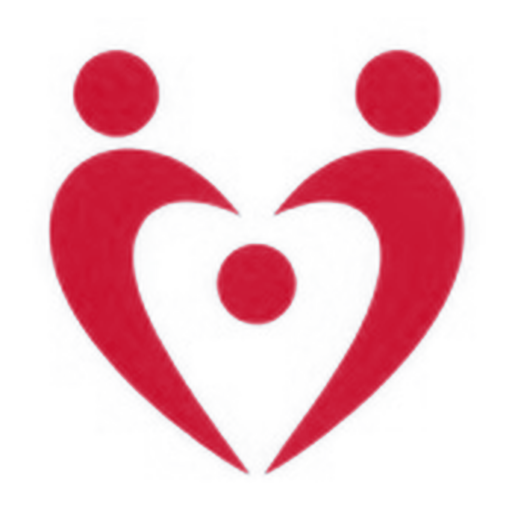
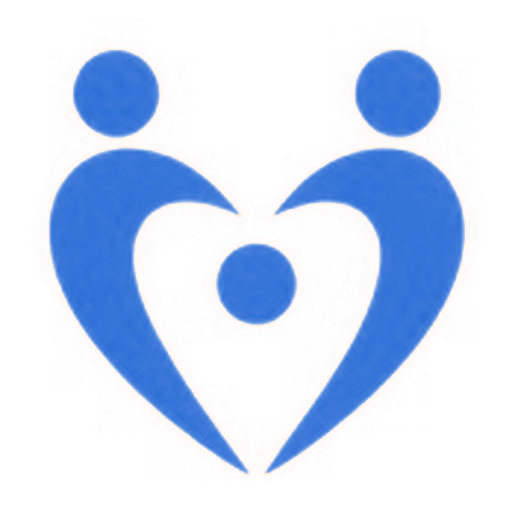
Blue/orange preview (local only)

Changed region(s): [[0.0938, 0.0938, 0.9062, 0.9375], [0.4062, 0.4688, 0.5938, 0.6562]]

diff --git a/css/style.css b/css/style.css
@@ -1,5 +1,5 @@
 @font-face{font-family:"Manrope";src:url("../fonts/Manrope-var.woff2") format("woff2");font-weight:200 800;font-display:swap}
-:root{--navy:#1B2A4A;--navy2:#26375C;--green:#C8102E;--green-d:#A00D25;--ink:#1B2A4A;--mut:#5A6678;--bg:#F6F8FB;--line:#E3E8EF}
+:root{--navy:#2E6FD6;--navy2:#2560BD;--green:#F26B1D;--green-d:#D9560F;--ink:#1F4E8C;--mut:#5A6678;--bg:#F6F8FB;--line:#E3E8EF}
 *{box-sizing:border-box}html{scroll-behavior:smooth;scroll-padding-top:80px}
 body{margin:0;font:16px/1.65 Manrope,system-ui,sans-serif;color:var(--ink);background:#fff}
 img{max-width:100%;height:auto;display:block}a{color:inherit}
@@ -26,40 +26,40 @@ nav#menu a.btn{color:#fff}
 .ctas{display:flex;gap:14px;flex-wrap:wrap;margin:28px 0}
 .ticks{list-style:none;padding:0;display:flex;gap:22px;flex-wrap:wrap;color:var(--mut);font-size:.92rem;font-weight:600}
 .ticks li::before,.list li::before{content:"✓";color:var(--green-d);font-weight:800;margin-right:8px}
-.mock{background:var(--navy);border-radius:18px;box-shadow:0 30px 60px -20px rgba(27,42,74,.45);color:#EDEDED;overflow:hidden}
-.mock-bar{display:flex;gap:6px;align-items:center;padding:12px 16px;background:#14203A;font-size:.8rem}.mock-bar i{width:10px;height:10px;border-radius:50%;background:#4A5A7A}.mock-bar span{margin-left:10px}
+.mock{background:var(--navy);border-radius:18px;box-shadow:0 30px 60px -20px rgba(31,78,140,.45);color:#EDEDED;overflow:hidden}
+.mock-bar{display:flex;gap:6px;align-items:center;padding:12px 16px;background:#1F4E8C;font-size:.8rem}.mock-bar i{width:10px;height:10px;border-radius:50%;background:#4A6A9A}.mock-bar span{margin-left:10px}
 .mock-body{padding:18px;display:grid;gap:14px}.mock small{font-size:.72rem;text-transform:uppercase;letter-spacing:.08em;color:#B5B5B5;display:block}
 .kpis{display:grid;grid-template-columns:repeat(3,1fr);gap:12px}.kpi,.chart,.bars,.lb,.ring{background:var(--navy2);border-radius:12px;padding:12px}
-.kpi strong{font-size:1.5rem;color:#fff;display:block}.meter{height:6px;background:#33415F;border-radius:4px;margin-top:6px}.meter b{display:block;height:100%;background:var(--green);border-radius:4px}
+.kpi strong{font-size:1.5rem;color:#fff;display:block}.meter{height:6px;background:#2F5A94;border-radius:4px;margin-top:6px}.meter b{display:block;height:100%;background:var(--green);border-radius:4px}
 .chart svg{width:100%;height:110px;margin-top:6px}
-.bars>div{display:flex;align-items:flex-end;gap:10px;height:80px;margin-top:8px}.bars b{flex:1;background:linear-gradient(var(--green),#8E0B20);border-radius:4px 4px 0 0}
+.bars>div{display:flex;align-items:flex-end;gap:10px;height:80px;margin-top:8px}.bars b{flex:1;background:linear-gradient(var(--green),#B8460A);border-radius:4px 4px 0 0}
 .mock-note{font-size:.72rem;color:#B5B5B5;margin:0;padding:0 18px 14px}
 .logos{padding:36px 0;border-bottom:1px solid var(--line)}
 .logos ul{list-style:none;padding:0;display:flex;justify-content:center;gap:16px;flex-wrap:wrap;margin:0}.logos li{border:1.5px dashed #c5cfdc;color:#6b788b;border-radius:8px;padding:12px 22px;font-size:.85rem;font-weight:700}
 .sec{padding:96px 0}.alt{background:var(--bg)}.dark{background:var(--navy);color:#F2F2F2}.dark .eyebrow{color:var(--green)}.dark h2{color:#fff}
 .grid3{display:grid;grid-template-columns:repeat(3,1fr);gap:22px}
-.card{background:#fff;border:1px solid var(--line);border-radius:16px;padding:28px;box-shadow:0 2px 6px rgba(27,42,74,.04)}.card p{color:var(--mut);margin:0}
+.card{background:#fff;border:1px solid var(--line);border-radius:16px;padding:28px;box-shadow:0 2px 6px rgba(31,78,140,.04)}.card p{color:var(--mut);margin:0}
 .ic{width:46px;height:46px;border-radius:12px;background:#EAF0F8;color:var(--green-d);display:grid;place-items:center;font-size:1.3rem;margin-bottom:16px}
 .split{display:grid;grid-template-columns:1fr 1.1fr;gap:56px;align-items:start}
 .duo{display:grid;gap:20px}.list{list-style:none;padding:0;margin:0}.list li{padding:5px 0}
 .steps{list-style:none;padding:0;display:grid;grid-template-columns:repeat(4,1fr);gap:22px;counter-reset:s}
 .steps li{border-top:3px solid var(--green);padding-top:20px}.steps span{display:inline-grid;place-items:center;width:38px;height:38px;border-radius:50%;background:var(--navy);color:#fff;font-weight:800;margin-bottom:12px}.steps p{color:var(--mut)}
 .feat{display:grid;grid-template-columns:1fr 1.2fr;gap:48px;align-items:center}
-.feat-list{display:grid;gap:6px}.feat-list article{padding:14px 0 14px 18px;border-left:3px solid #33415F}.feat-list article:hover{border-color:var(--green)}.feat-list h3{color:#fff;margin:0 0 4px}.feat-list p{margin:0;color:#C8C8C8}
-.mock-lg{background:#14203A;border:1px solid #33415F}
+.feat-list{display:grid;gap:6px}.feat-list article{padding:14px 0 14px 18px;border-left:3px solid #2F5A94}.feat-list article:hover{border-color:var(--green)}.feat-list h3{color:#fff;margin:0 0 4px}.feat-list p{margin:0;color:#C8C8C8}
+.mock-lg{background:#1F4E8C;border:1px solid #2F5A94}
 .ring-row{display:grid;grid-template-columns:150px 1fr;gap:14px}.ring svg{width:100%;max-width:110px;margin:6px auto}
 .lb-r{display:grid;grid-template-columns:60px 1fr;gap:8px;align-items:center;font-size:.8rem;margin-top:8px}.lb-r b{height:8px;background:var(--green);border-radius:4px;display:block}
 .quote{margin:56px auto 0;max-width:760px;text-align:center;border:1.5px dashed #c5cfdc;border-radius:16px;padding:32px}
 .quote blockquote{margin:0 0 12px;font-size:1.25rem;font-weight:600}.quote figcaption{color:var(--mut);font-size:.9rem}
-.about{display:grid;grid-template-columns:380px 1fr;gap:56px;align-items:center}.about img{border-radius:18px;box-shadow:0 20px 40px -20px rgba(27,42,74,.4)}
+.about{display:grid;grid-template-columns:380px 1fr;gap:56px;align-items:center}.about img{border-radius:18px;box-shadow:0 20px 40px -20px rgba(31,78,140,.4)}
 .role{font-weight:700;color:var(--green-d)}
 .creds{list-style:none;padding:0;display:flex;flex-wrap:wrap;gap:8px;margin-top:20px}.creds li{background:#fff;border:1px solid var(--line);border-radius:999px;padding:6px 14px;font-size:.82rem;font-weight:700;color:var(--navy)}
-.form{background:#fff;border:1px solid var(--line);border-radius:18px;padding:32px;display:grid;gap:16px;box-shadow:0 20px 40px -24px rgba(27,42,74,.3)}
+.form{background:#fff;border:1px solid var(--line);border-radius:18px;padding:32px;display:grid;gap:16px;box-shadow:0 20px 40px -24px rgba(31,78,140,.3)}
 .form label{display:grid;gap:6px;font-weight:700;font-size:.92rem}
 .form input,.form select,.form textarea{font:inherit;padding:12px 14px;border:1.5px solid #cdd6e2;border-radius:10px;background:#fff}
-.form input:focus,.form select:focus,.form textarea:focus{border-color:var(--green-d);outline:none;box-shadow:0 0 0 3px rgba(200,16,46,.25)}
+.form input:focus,.form select:focus,.form textarea:focus{border-color:var(--green-d);outline:none;box-shadow:0 0 0 3px rgba(242,107,29,.25)}
 .hp{position:absolute;left:-9999px}.fine{font-size:.82rem;color:var(--mut);margin:0}
-.foot{background:#14203A;color:#C8C8C8;padding:40px 0}.foot-in{display:flex;flex-wrap:wrap;gap:24px;justify-content:space-between;align-items:center}
+.foot{background:#1F4E8C;color:#C8C8C8;padding:40px 0}.foot-in{display:flex;flex-wrap:wrap;gap:24px;justify-content:space-between;align-items:center}
 .foot .brand{color:#fff}.foot .brand b{color:var(--green)}.foot nav{display:flex;gap:20px}.foot nav a{text-decoration:none}.foot p{margin:0;font-size:.85rem}
 @media (max-width:960px){.hero-in,.split,.feat,.about{grid-template-columns:1fr}.grid3{grid-template-columns:1fr 1fr}.steps{grid-template-columns:1fr 1fr}.about img{max-width:340px}
 .menu-btn{display:block}nav#menu{display:none;position:absolute;top:68px;left:0;right:0;background:#fff;flex-direction:column;padding:20px;border-bottom:1px solid var(--line)}nav#menu.open{display:flex}}
@@ -72,28 +72,28 @@ nav#menu a.btn{color:#fff}
 .brand-logo{height:44px;width:auto;max-width:60vw}@media(max-width:600px){.brand-logo{height:36px}}
 /* ---- Rebrand preview: orange + charcoal + white ---- */
 :root{--line:#E3E8EF;--bg:#F6F8FB;--mut:#5A6678}
-h1{letter-spacing:-.035em}h1 span{color:var(--green);background:linear-gradient(transparent 70%,#F9DCE1 70%)}
+h1{letter-spacing:-.035em}h1 span{color:var(--green);background:linear-gradient(transparent 70%,#FDE6D6 70%)}
 h2{letter-spacing:-.03em}
 .nav{background:rgba(255,255,255,.96);border-bottom:1px solid var(--line)}.nav-in{height:76px}
 nav#menu a:hover{color:var(--green-d)}
-.btn{background:var(--green);border-radius:999px;box-shadow:0 10px 24px -10px rgba(200,16,46,.6)}
+.btn{background:var(--green);border-radius:999px;box-shadow:0 10px 24px -10px rgba(242,107,29,.6)}
 .btn:hover{background:var(--green-d)}
 .btn-ghost{background:#fff;color:var(--navy);box-shadow:inset 0 0 0 2px var(--navy)}.btn-ghost:hover{background:var(--navy);color:#fff}
 .eyebrow{display:inline-block;background:#EAF0F8;color:var(--green-d);padding:6px 12px;border-radius:999px;letter-spacing:.1em}
-.dark .eyebrow{background:rgba(200,16,46,.15);color:#E0475E}
+.dark .eyebrow{background:rgba(242,107,29,.15);color:#F58A4B}
 .hero{background:radial-gradient(900px 520px at 90% 0%,#DCE6F3,transparent 70%),radial-gradient(600px 400px at 0% 100%,#EAF0F8,transparent),#fff}
-.mock{border-radius:22px;box-shadow:0 40px 80px -30px rgba(27,42,74,.55)}
+.mock{border-radius:22px;box-shadow:0 40px 80px -30px rgba(31,78,140,.55)}
 .card{border-radius:20px;border-color:var(--line);transition:transform .2s,box-shadow .2s}
-.card:hover{transform:translateY(-3px);box-shadow:0 20px 40px -24px rgba(200,16,46,.45);border-color:#F2B8C1}
+.card:hover{transform:translateY(-3px);box-shadow:0 20px 40px -24px rgba(242,107,29,.45);border-color:#FBCDB0}
 .ic{border-radius:50%;background:var(--green);color:#fff}
 .steps li{border-top:4px solid var(--green)}.steps span{background:var(--green)}
-.dark{background:linear-gradient(160deg,#1B2A4A,#14203A)}
+.dark{background:linear-gradient(160deg,#2E6FD6,#1F4E8C)}
 .alt{background:var(--bg)}
 .logos li{border-color:#D5DEEA}
-.foot{background:#14203A;border-top:4px solid var(--green)}
+.foot{background:#1F4E8C;border-top:4px solid var(--green)}
 .brand-logo{height:54px}@media(max-width:600px){.brand-logo{height:42px}}
-/* Secondary accent: green #1B2A4A (positive/progress cues). Orange remains primary. */
-:root{--ok:#1B2A4A;--ok-d:#14203A;--ok-l:#EAF0F8}
+/* Secondary accent: green #2E6FD6 (positive/progress cues). Orange remains primary. */
+:root{--ok:#2E6FD6;--ok-d:#1F4E8C;--ok-l:#EAF0F8}
 .ticks li::before,.list li::before{color:var(--ok)}
 .meter b{background:var(--ok)}
 .bars b{background:linear-gradient(#3A5A8C,var(--ok))}
@@ -106,7 +106,7 @@ nav#menu a:hover{color:var(--green-d)}
 /* Green pass 2: stronger secondary presence. Orange still leads all CTAs. */
 #solution{background:var(--ok-l)}
 #solution .card{border-top:4px solid var(--ok)}
-#solution>.wrap>.eyebrow,#how .eyebrow,#employers .eyebrow{background:#fff;color:var(--ok-d);box-shadow:inset 0 0 0 1px rgba(27,42,74,.25)}
+#solution>.wrap>.eyebrow,#how .eyebrow,#employers .eyebrow{background:#fff;color:var(--ok-d);box-shadow:inset 0 0 0 1px rgba(31,78,140,.25)}
 #how .eyebrow,#employers .eyebrow{background:var(--ok-l);box-shadow:none}
 #solution .card .eyebrow{background:var(--ok-l);color:var(--ok-d)}
 #solution h2::after,#how h2::after,#employers h2::after{content:"";display:block;width:56px;height:4px;border-radius:2px;background:var(--ok);margin-top:14px}
@@ -117,15 +117,15 @@ main p a:not(.btn),footer a:not(.btn){text-decoration-color:var(--ok);text-under
 main p a:not(.btn):hover,footer a:not(.btn):hover{color:var(--ok-d)}
 #solution .offer .card .eyebrow{align-self:flex-start}
 /* green icons */
-.ic,#solution .ic{background:var(--ok);color:#fff;box-shadow:0 8px 18px -10px rgba(27,42,74,.7)}
+.ic,#solution .ic{background:var(--ok);color:#fff;box-shadow:0 8px 18px -10px rgba(31,78,140,.7)}
 .steps span{background:var(--ok);color:#fff}
-.feat-list article{border-left-color:rgba(27,42,74,.55)}
+.feat-list article{border-left-color:rgba(31,78,140,.55)}
 svg.icon,.icon{color:var(--ok);fill:currentColor}
 /* Green pass 4: every interactive state turns green. Resting look unchanged. */
 a,button,.btn,.card,nav#menu a,.menu-btn{transition:background-color .22s ease,color .22s ease,border-color .22s ease,box-shadow .22s ease,transform .22s ease,text-decoration-color .22s ease}
-.btn:hover,.btn:focus-visible{background:var(--ok);color:#fff;box-shadow:0 12px 28px -10px rgba(27,42,74,.65);transform:translateY(-1px)}
-.btn:active{background:var(--ok-d);color:#fff;transform:translateY(0);box-shadow:0 6px 14px -8px rgba(27,42,74,.7)}
-.btn-ghost:hover,.btn-ghost:focus-visible{background:#fff;color:var(--ok);box-shadow:inset 0 0 0 2px var(--ok),0 10px 24px -14px rgba(27,42,74,.5)}
+.btn:hover,.btn:focus-visible{background:var(--ok);color:#fff;box-shadow:0 12px 28px -10px rgba(31,78,140,.65);transform:translateY(-1px)}
+.btn:active{background:var(--ok-d);color:#fff;transform:translateY(0);box-shadow:0 6px 14px -8px rgba(31,78,140,.7)}
+.btn-ghost:hover,.btn-ghost:focus-visible{background:#fff;color:var(--ok);box-shadow:inset 0 0 0 2px var(--ok),0 10px 24px -14px rgba(31,78,140,.5)}
 .btn-ghost:active{background:var(--ok-l);color:var(--ok-d);box-shadow:inset 0 0 0 2px var(--ok-d)}
 #platform .btn-ghost:hover,#platform .btn-ghost:focus-visible{background:transparent;color:#A9C1E3;box-shadow:inset 0 0 0 2px #A9C1E3}
 nav#menu a:not(.btn):hover,nav#menu a:not(.btn):focus-visible{color:var(--ok)}
@@ -134,8 +134,8 @@ a:not(.btn):hover,a:not(.btn):focus-visible{color:var(--ok);text-decoration-colo
 a:not(.btn):active{color:var(--ok-d)}
 .foot a:not(.btn):hover,.dark a:not(.btn):hover{color:#A9C1E3}
 .menu-btn:hover,.menu-btn:focus-visible{color:var(--ok);border-color:var(--ok)}
-.card:hover,.card:focus-within{border-color:var(--ok);box-shadow:0 20px 40px -24px rgba(27,42,74,.45)}
-.form input:focus,.form select:focus,.form textarea:focus{border-color:var(--ok);box-shadow:0 0 0 3px rgba(27,42,74,.22)}
+.card:hover,.card:focus-within{border-color:var(--ok);box-shadow:0 20px 40px -24px rgba(31,78,140,.45)}
+.form input:focus,.form select:focus,.form textarea:focus{border-color:var(--ok);box-shadow:0 0 0 3px rgba(31,78,140,.22)}
 :focus-visible{outline-color:var(--ok)}
 .grid4{display:grid;grid-template-columns:repeat(4,1fr);gap:22px}
 #engagement .ic svg{display:block}

diff --git a/index.html b/index.html
@@ -13,7 +13,7 @@
 <meta property="og:url" content="https://workforcewellness.co/">
 <meta property="og:image" content="https://workforcewellness.co/img/og.png">
 <meta name="twitter:card" content="summary_large_image">
-<meta name="theme-color" content="#0B1F3A">
+<meta name="theme-color" content="#2E6FD6">
 <link rel="icon" href="img/favicon-32-rwb.png" sizes="32x32">
 <link rel="apple-touch-icon" href="img/ww-icon-512-rwb.png">
 <link rel="preload" href="fonts/Manrope-var.woff2" as="font" type="font/woff2" crossorigin>
@@ -50,7 +50,7 @@
           <div class="kpi"><small>Challenge streaks</small><strong>—</strong><div class="meter"><b style="width:44%"></b></div></div>
         </div>
         <div class="chart"><small>Engagement trend</small>
-          <svg viewBox="0 0 300 110" preserveAspectRatio="none"><defs><linearGradient id="g" x1="0" x2="0" y1="0" y2="1"><stop offset="0" stop-color="#C8102E" stop-opacity=".35"/><stop offset="1" stop-color="#C8102E" stop-opacity="0"/></linearGradient></defs><path d="M0 90 C40 85 60 70 90 72 S150 50 180 46 240 30 300 18 V110 H0Z" fill="url(#g)"/><path d="M0 90 C40 85 60 70 90 72 S150 50 180 46 240 30 300 18" fill="none" stroke="#C8102E" stroke-width="3"/><path d="M0 100 C60 98 120 92 180 86 S260 74 300 70" fill="none" stroke="#E87A8A" stroke-width="2" stroke-dasharray="5 5"/></svg>
+          <svg viewBox="0 0 300 110" preserveAspectRatio="none"><defs><linearGradient id="g" x1="0" x2="0" y1="0" y2="1"><stop offset="0" stop-color="#F26B1D" stop-opacity=".35"/><stop offset="1" stop-color="#F26B1D" stop-opacity="0"/></linearGradient></defs><path d="M0 90 C40 85 60 70 90 72 S150 50 180 46 240 30 300 18 V110 H0Z" fill="url(#g)"/><path d="M0 90 C40 85 60 70 90 72 S150 50 180 46 240 30 300 18" fill="none" stroke="#F26B1D" stroke-width="3"/><path d="M0 100 C60 98 120 92 180 86 S260 74 300 70" fill="none" stroke="#F7A06B" stroke-width="2" stroke-dasharray="5 5"/></svg>
         </div>
         <div class="bars"><small>By department</small><div><b style="height:60%"></b><b style="height:85%"></b><b style="height:45%"></b><b style="height:70%"></b><b style="height:92%"></b><b style="height:55%"></b></div></div>
       </div>
@@ -134,7 +134,7 @@
         <div class="mock-bar"><i></i><i></i><i></i><span>Challenge: Move More Month</span></div>
         <div class="mock-body">
           <div class="ring-row">
-            <div class="ring"><svg viewBox="0 0 36 36"><circle cx="18" cy="18" r="15.9" fill="none" stroke="#33415F" stroke-width="3.5"/><circle cx="18" cy="18" r="15.9" fill="none" stroke="#1B2A4A" stroke-width="3.5" stroke-dasharray="68 100" transform="rotate(-90 18 18)" stroke-linecap="round"/></svg><small>Goal progress</small></div>
+            <div class="ring"><svg viewBox="0 0 36 36"><circle cx="18" cy="18" r="15.9" fill="none" stroke="#2F5A94" stroke-width="3.5"/><circle cx="18" cy="18" r="15.9" fill="none" stroke="#2E6FD6" stroke-width="3.5" stroke-dasharray="68 100" transform="rotate(-90 18 18)" stroke-linecap="round"/></svg><small>Goal progress</small></div>
             <div class="lb"><small>Team leaderboard</small>
               <div class="lb-r"><span>Team A</span><b style="width:90%"></b></div>
               <div class="lb-r"><span>Team B</span><b style="width:74%"></b></div>
@@ -143,7 +143,7 @@
             </div>
           </div>
           <div class="chart"><small>Weekly active participants</small>
-            <svg viewBox="0 0 300 90" preserveAspectRatio="none"><path d="M0 80 L50 66 L100 70 L150 48 L200 40 L250 28 L300 20" fill="none" stroke="#1B2A4A" stroke-width="3"/><g fill="#1B2A4A"><circle cx="50" cy="66" r="3"/><circle cx="150" cy="48" r="3"/><circle cx="250" cy="28" r="3"/></g></svg>
+            <svg viewBox="0 0 300 90" preserveAspectRatio="none"><path d="M0 80 L50 66 L100 70 L150 48 L200 40 L250 28 L300 20" fill="none" stroke="#2E6FD6" stroke-width="3"/><g fill="#2E6FD6"><circle cx="50" cy="66" r="3"/><circle cx="150" cy="48" r="3"/><circle cx="250" cy="28" r="3"/></g></svg>
           </div>
         </div>
         <p class="mock-note">Illustrative interface. Sample visuals, not client data.</p>

diff --git a/thanks.html b/thanks.html
@@ -13,7 +13,7 @@
 <meta property="og:url" content="https://workforcewellness.co/">
 <meta property="og:image" content="https://workforcewellness.co/img/og.png">
 <meta name="twitter:card" content="summary_large_image">
-<meta name="theme-color" content="#0B1F3A">
+<meta name="theme-color" content="#2E6FD6">
 <link rel="icon" href="img/favicon-32-rwb.png" sizes="32x32">
 <link rel="apple-touch-icon" href="img/ww-icon-512-rwb.png">
 <link rel="preload" href="fonts/Manrope-var.woff2" as="font" type="font/woff2" crossorigin>
